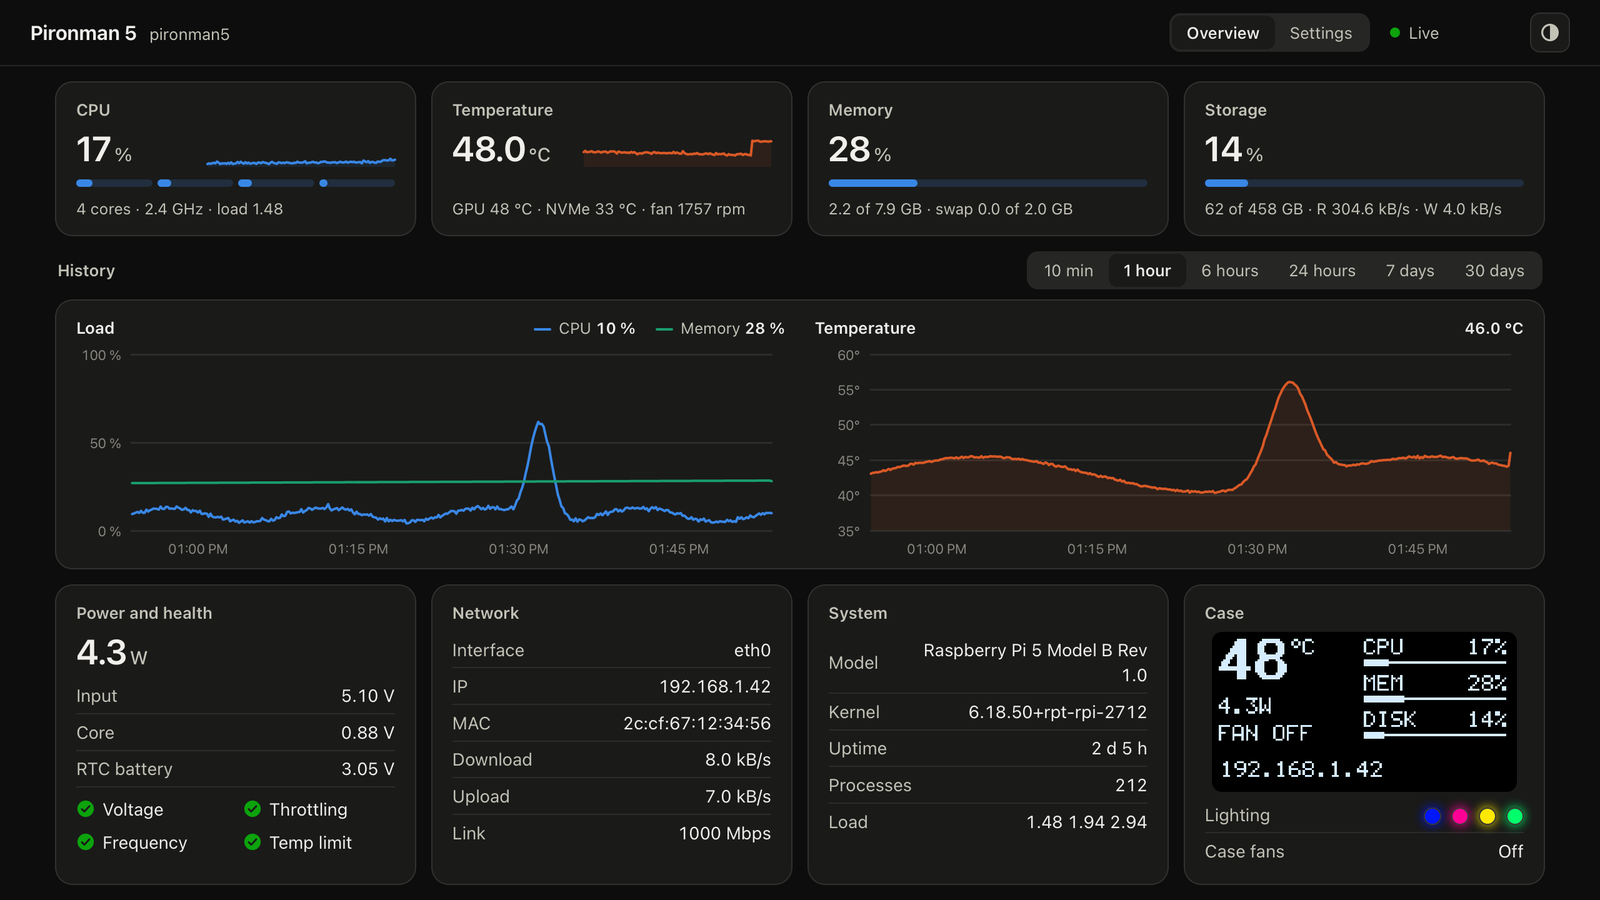
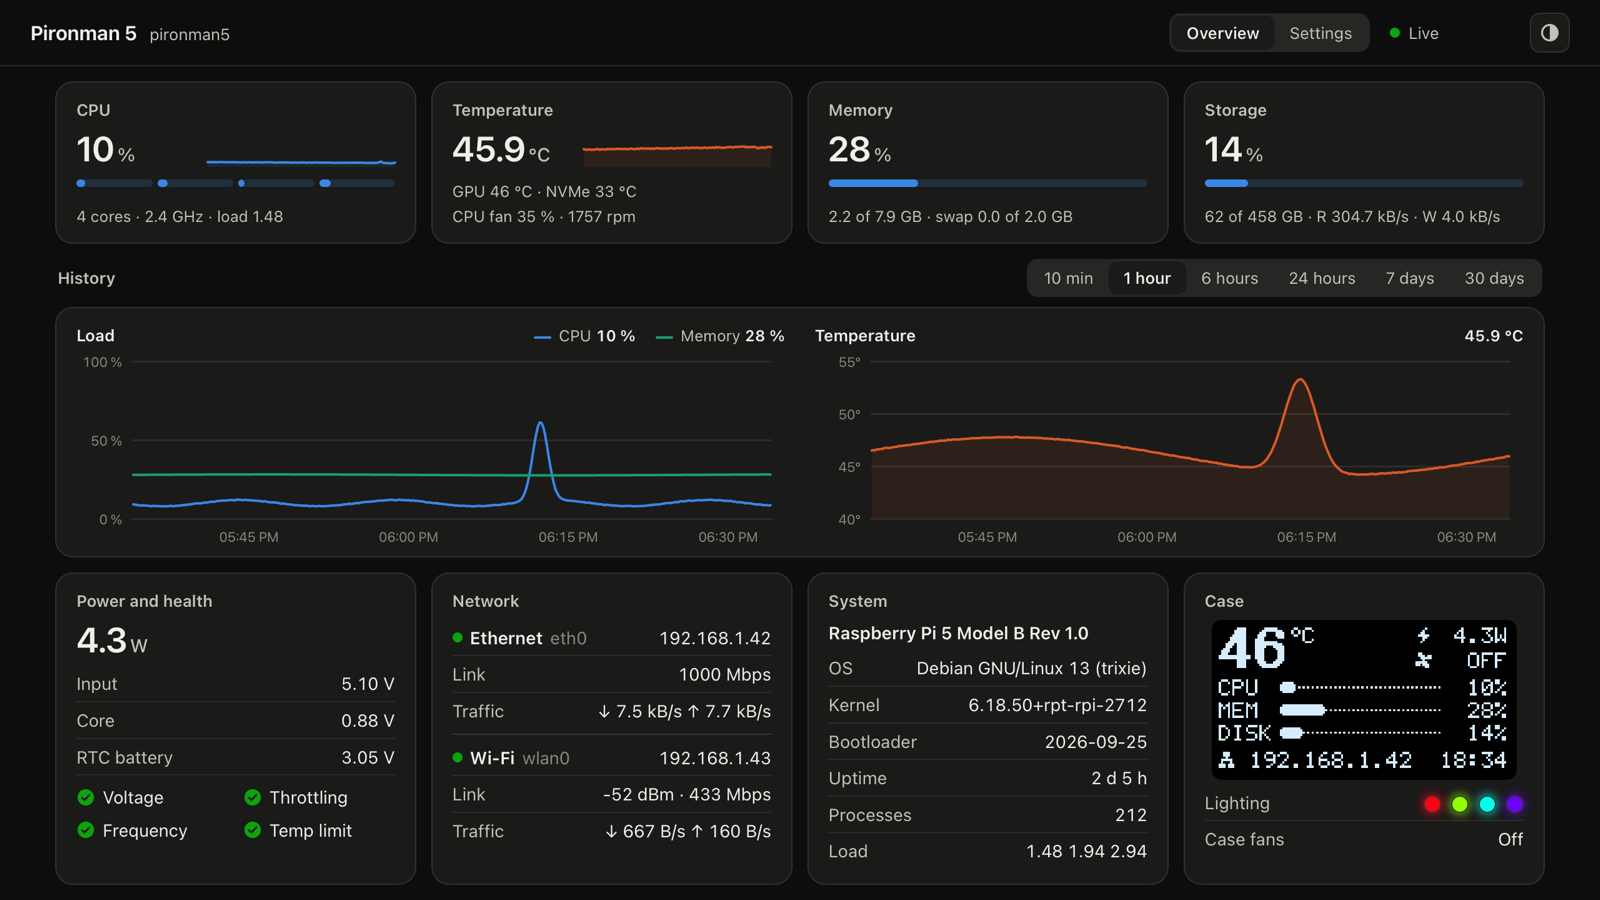
Pironman 5: version 0.2.1
The dashboard picture shows the new network card and display layout.

diff --git a/pironman5/version.py b/pironman5/version.py
@@ -1,1 +1,1 @@
-__version__ = "0.2.0"
+__version__ = "0.2.1"
